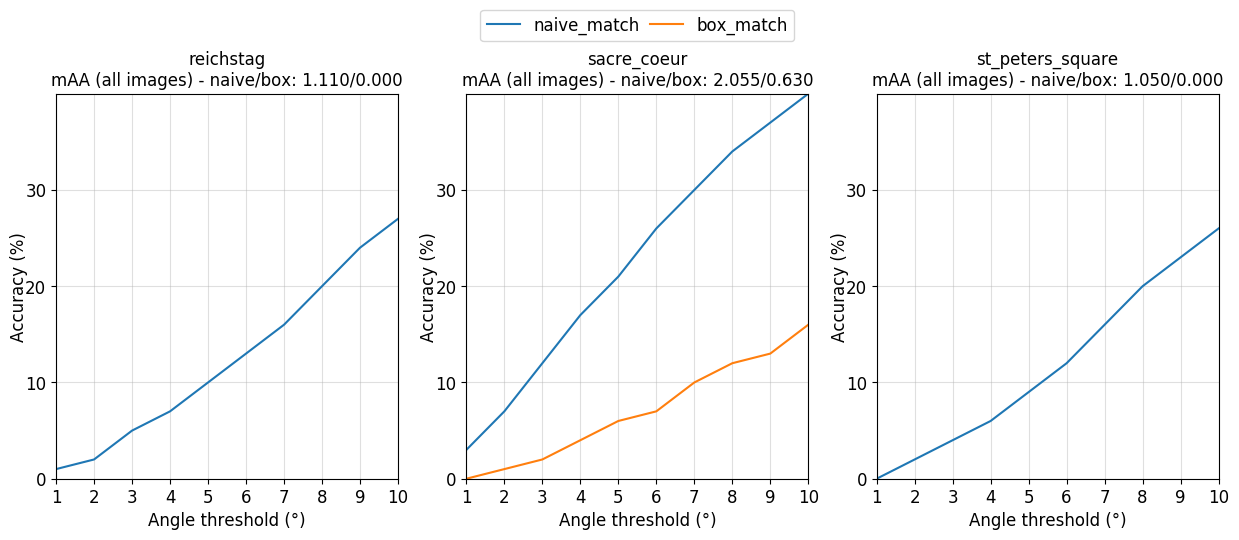
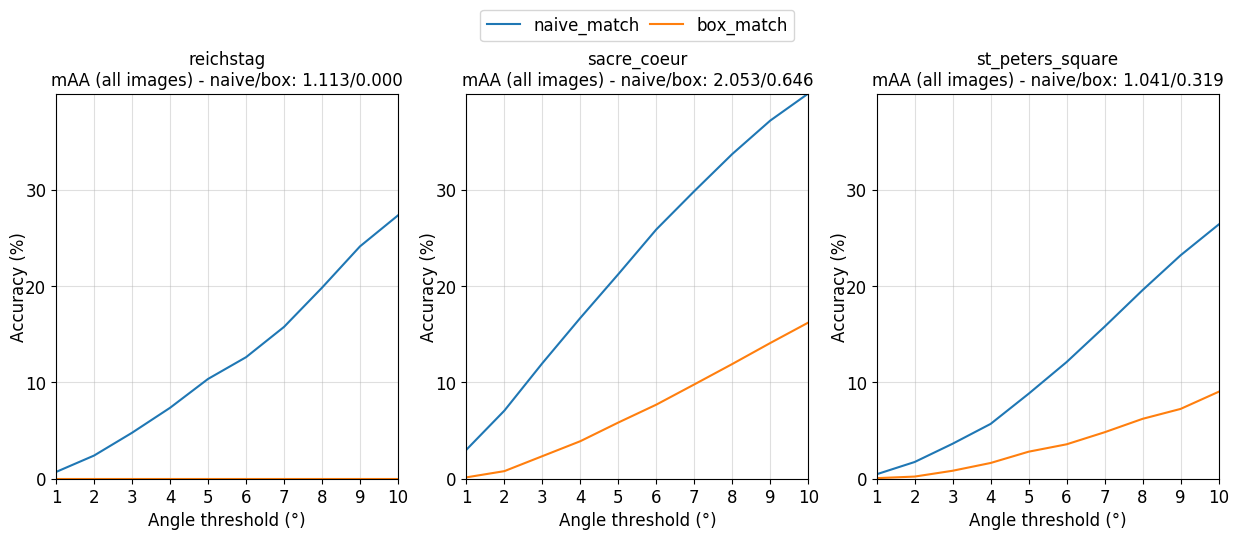
update plot

diff --git a/box_matching/index.html b/box_matching/index.html
@@ -83,11 +83,23 @@ An example of semantic boxes on the Phototourism dataset and four putative box m
 
 <h4>Updates:</h4>
 <ul>
-<li>2020-05-15: Update stereo-matching metrics plot with full sacre-coeur
+<li>
+<p>2020-05-27: Update stereo-matching metrics plot with full st-peters-square.
+  The coarse homography is estimated from putative box matches based on their
+  semantic labels and their visual similarity measured with the HardNet
+  descriptor. At most 2 matches are kept for each box. Window boxes are
+  discarded. Degenerate homographies are discarded early in the process.
+  The transformation is estimated from <em>all</em> possible pairs and takes
+  [5,90]s/img (which is still to much). Next step: sample a subset of the
+  hypothesis matches only (prosac).</p>
+</li>
+<li>
+<p>2020-05-15: Update stereo-matching metrics plot with full sacre-coeur
   results. The box matching is being improved to reduce the number of putative
   box matches that causes major latency by adding constraints on the boxes'
   geometric layout (e.g. putative matching boxes should form a simple polygon
-  in both images).</li>
+  in both images).</p>
+</li>
 <li>2020-05-10: first commit</li>
 </ul>
 <h4>TODO:</h4>
